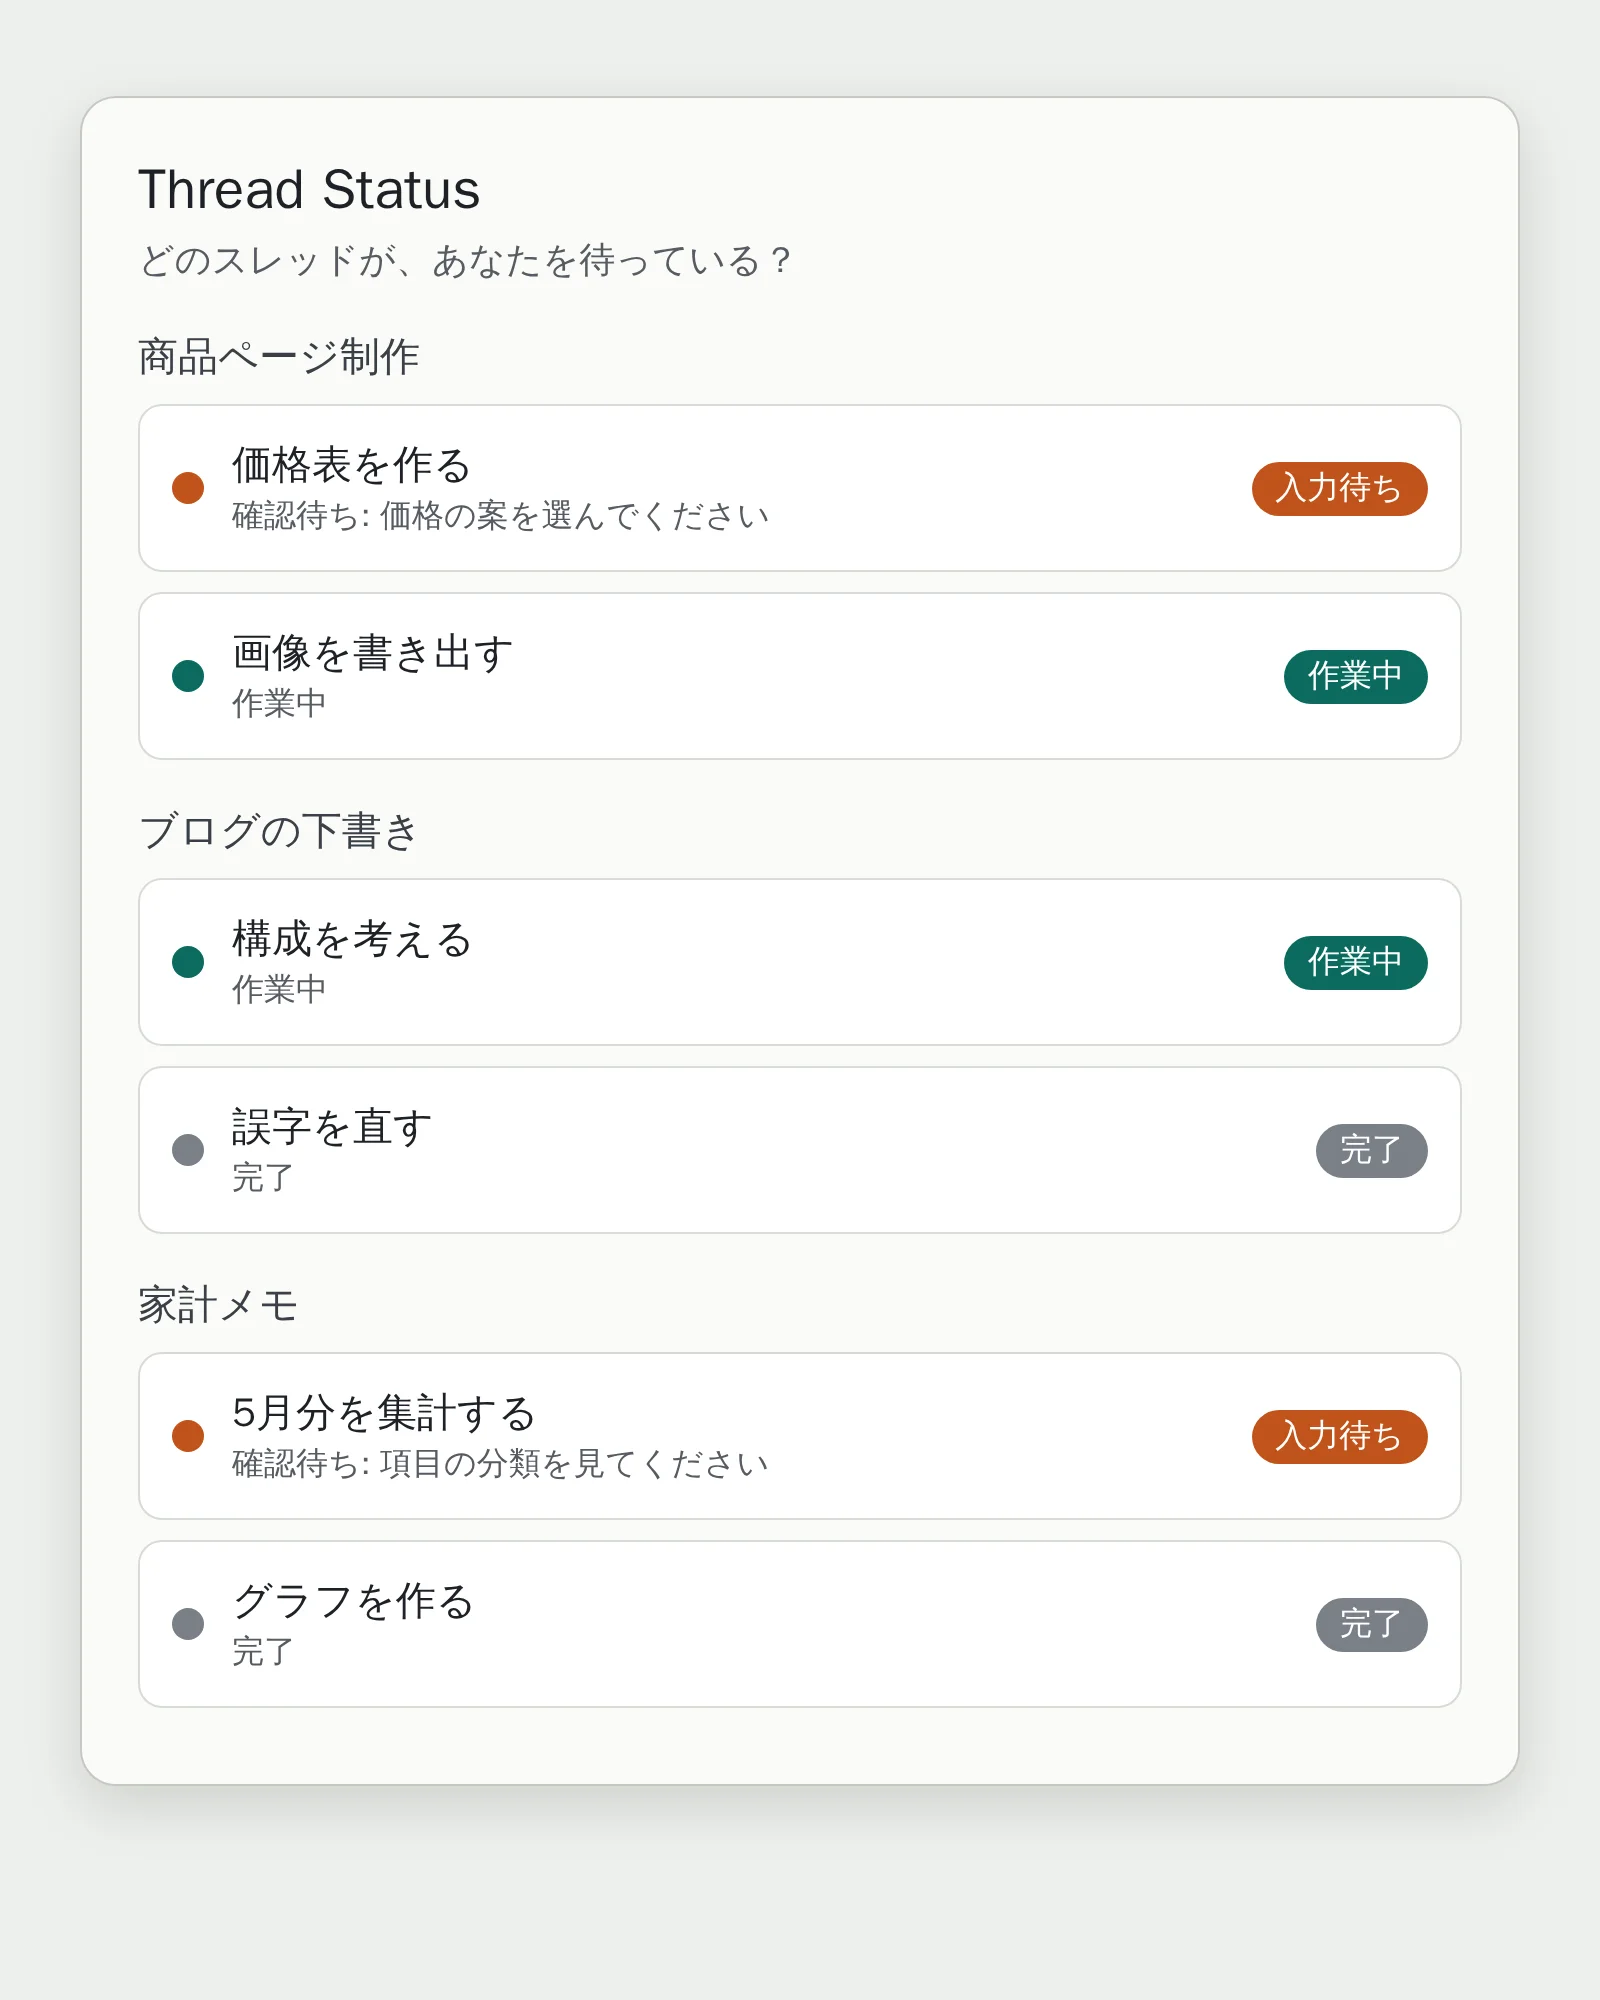
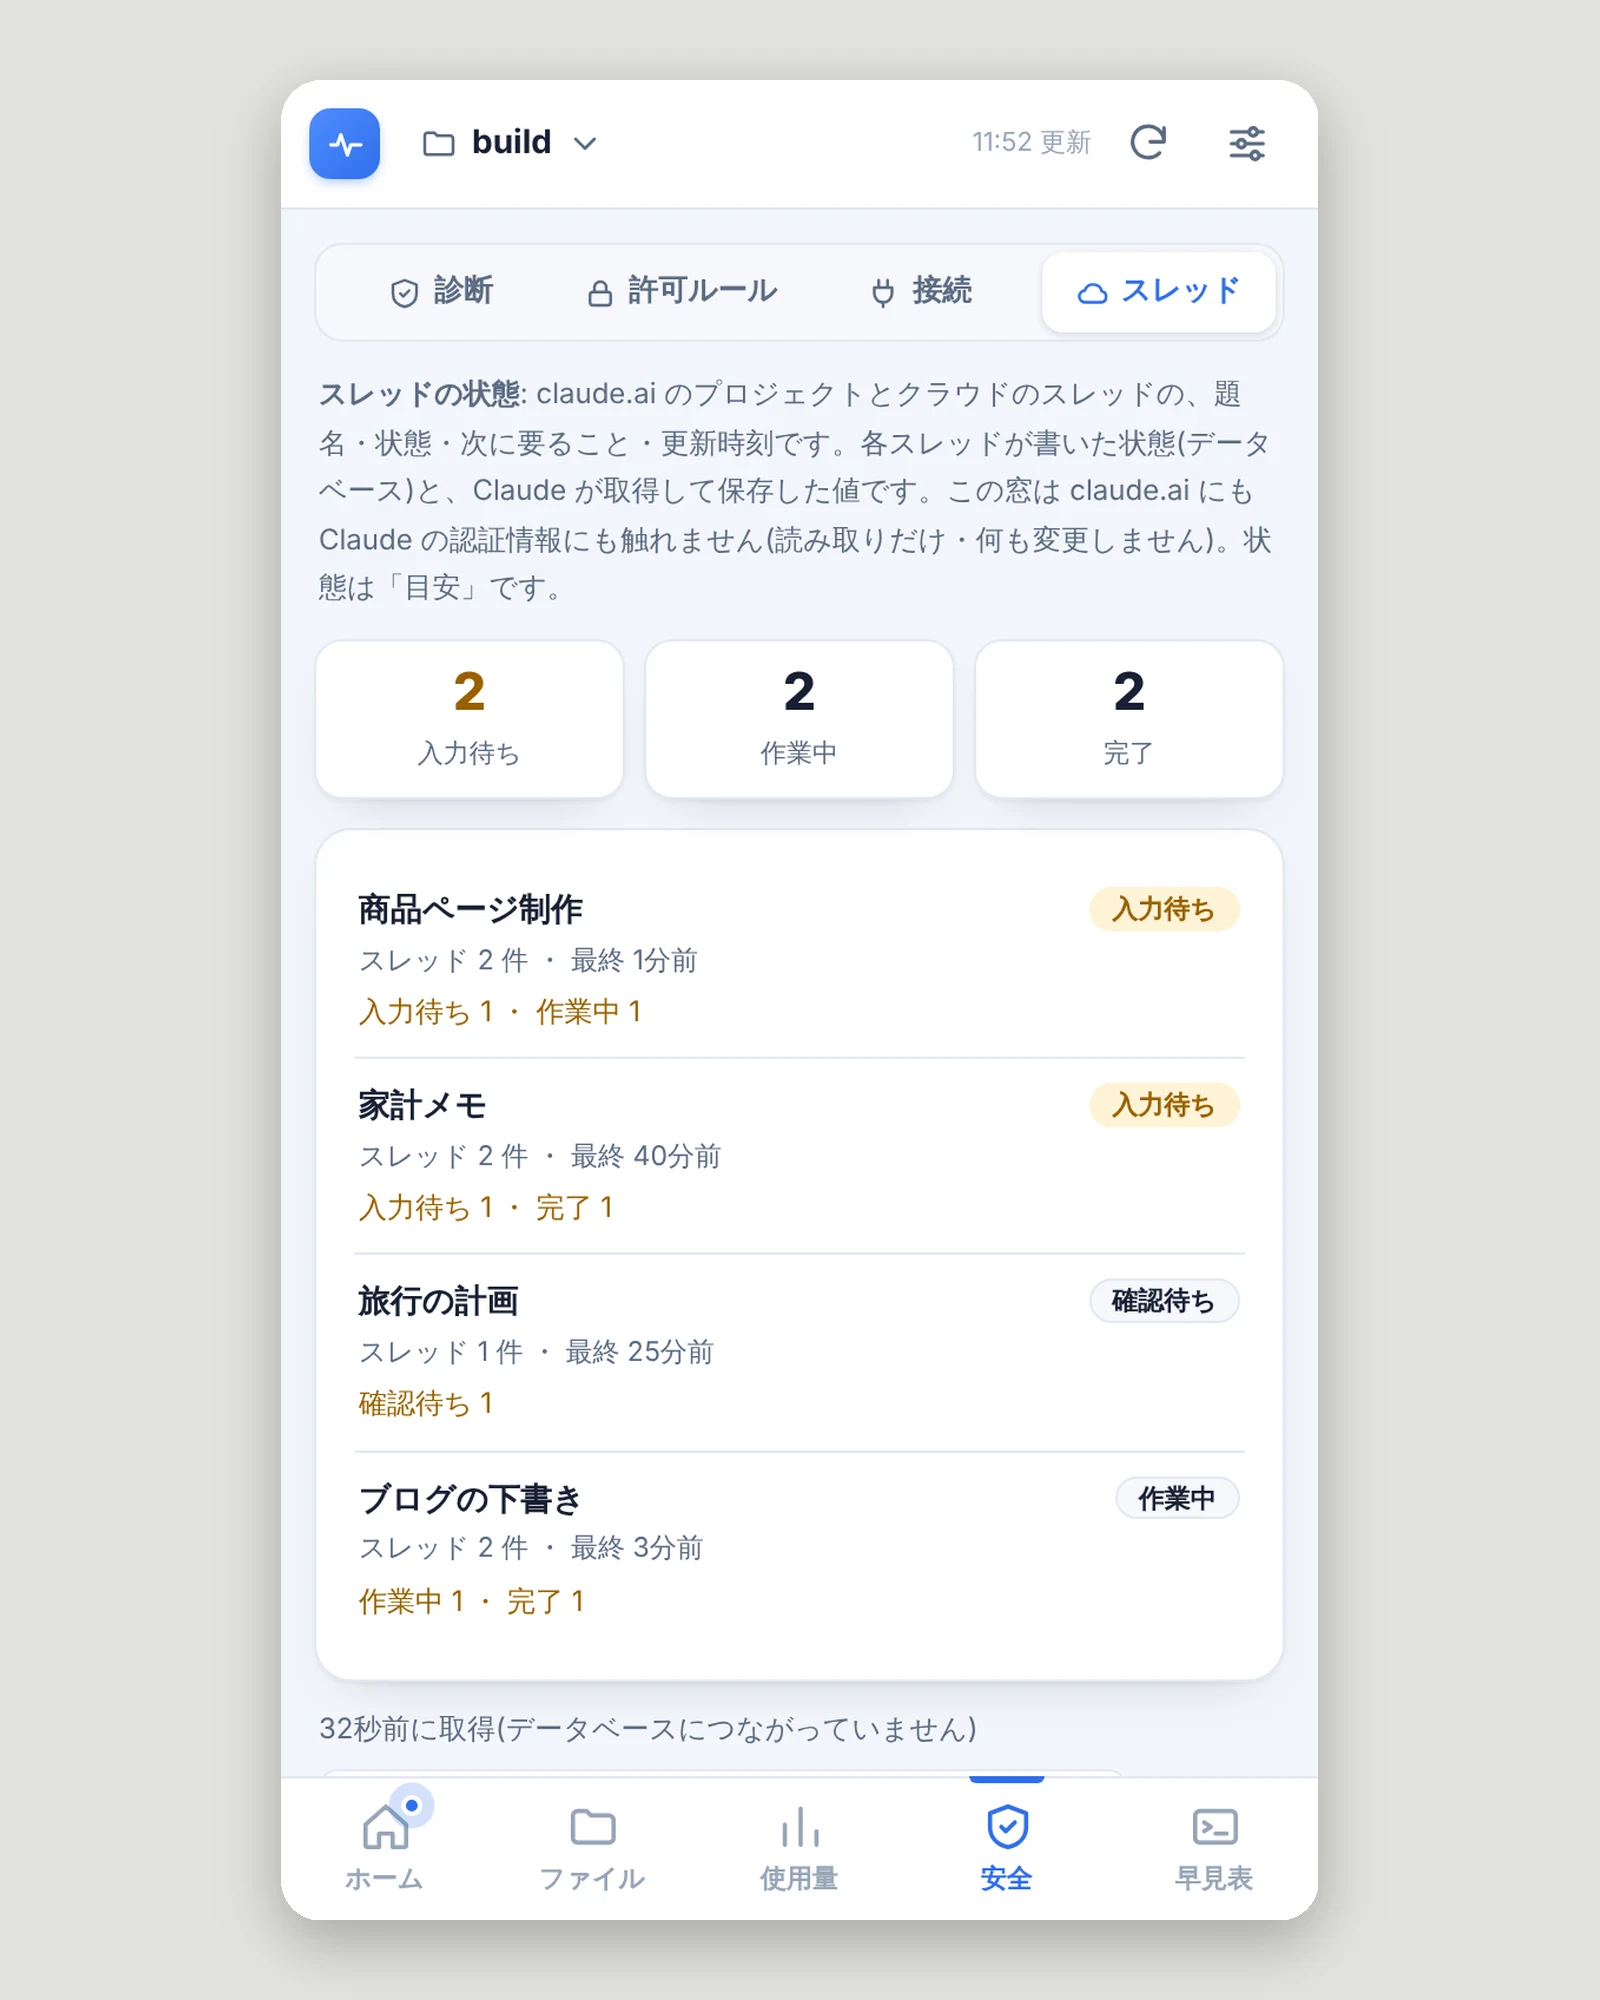
Thread Status for Claude: 実際の画面の画像に差し替え
Claude-Session: https://claude.ai/code/session_01BvNep2J1rX7XkNW8cQF6H5

diff --git a/src/data/works.ts b/src/data/works.ts
@@ -66,9 +66,10 @@ export const WORKS: Work[] = [
       'この PC の Claude Code だけを見る「かんたん版」もある（Windows）',
     ],
     price: '無料',
-    priceNote: '導入ガイドから、ダウンロードと手順を見られます。画像は表示のイメージです',
+    priceNote: '導入ガイドから、ダウンロードと手順を見られます。画像はサンプルのデータで表示した実際の画面です',
     images: [
-      { src: '/works/thread-status/demo.webp', alt: 'Thread Status for Claude の画面のイメージ。プロジェクトごとにスレッドが並び、入力待ち・作業中・完了が色で分かれている' },
+      { src: '/works/thread-status/demo.webp', alt: 'Thread Status for Claude の実際の画面。プロジェクトごとに、入力待ち・作業中・完了のスレッド数が並ぶ' },
+      { src: '/works/thread-status/demo2.webp', alt: 'プロジェクトを開いた画面。スレッドごとの状態と、次にあなたがすることが出る' },
     ],
     url: '/tools/cc-window/install.html',
     color: '#0b6b5f',
